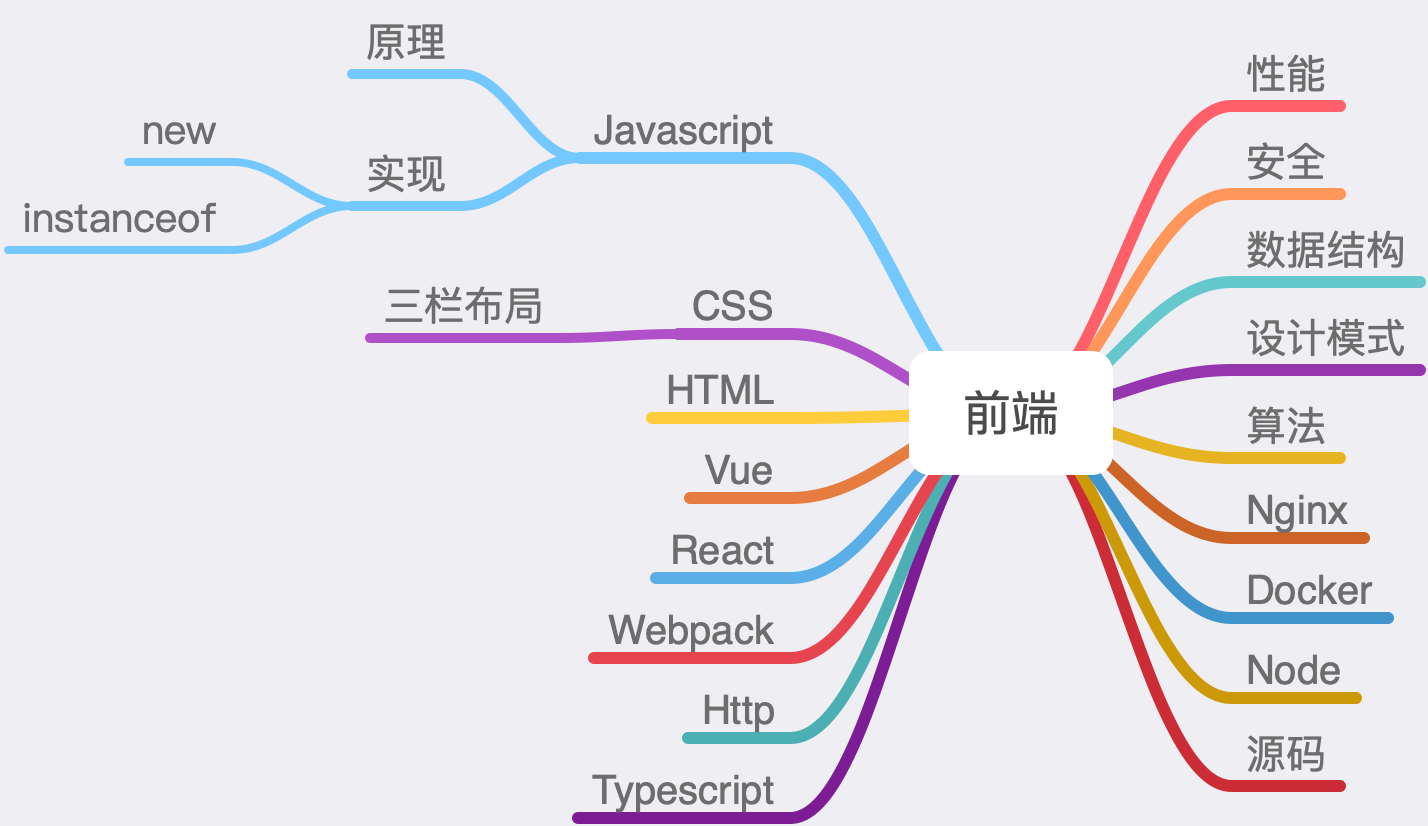
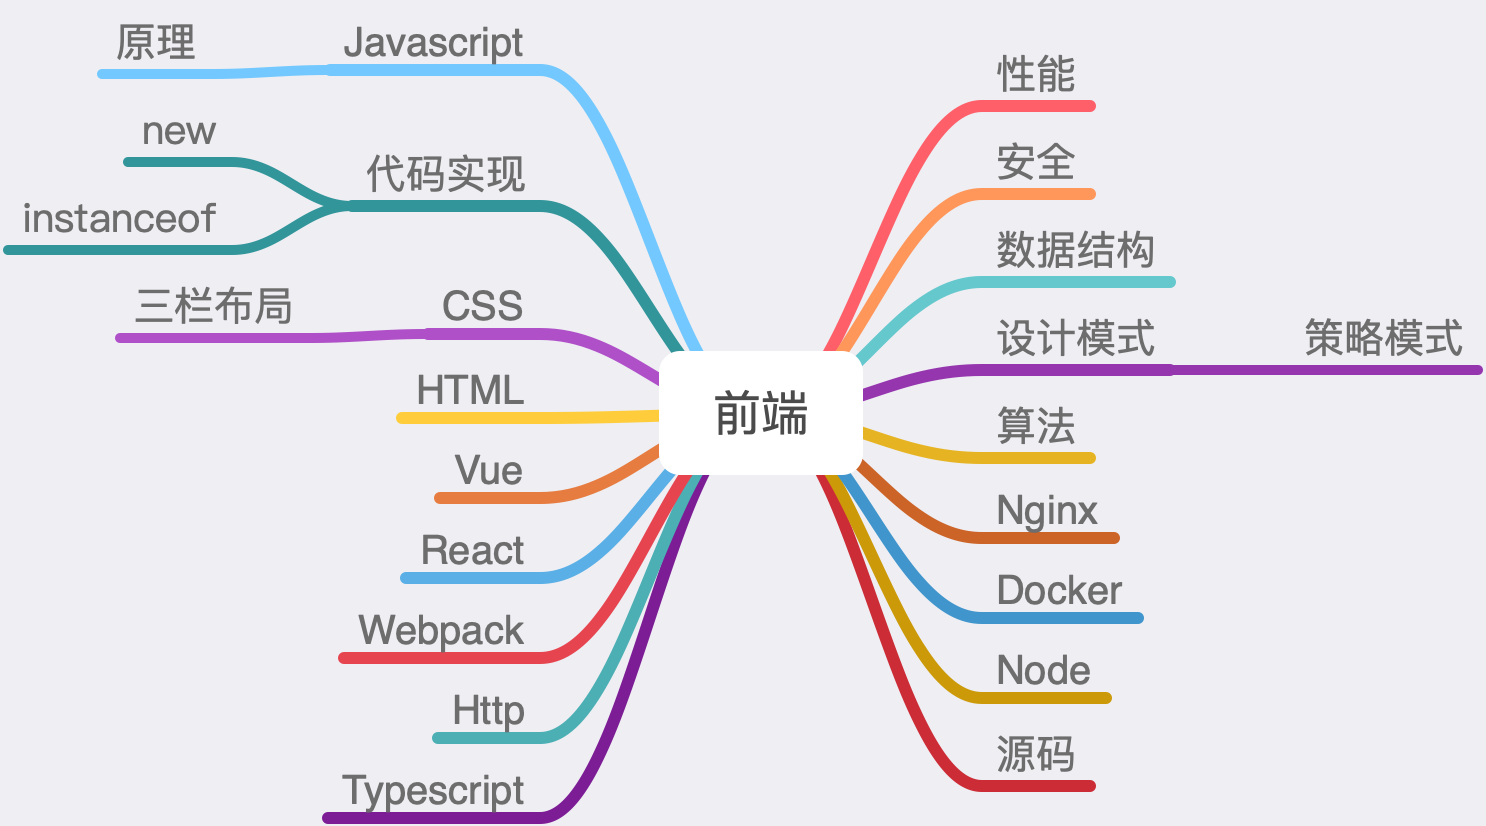
feat(write): 目录结构调整，添加一个手写实现的目录

Changed region(s): [[0.0, 0.0303, 1.0, 0.9988]]

diff --git a/readme.md b/readme.md
@@ -6,92 +6,97 @@
 
 ### 原理
 
-+ 原型链
-+ 闭包
-+ 执行上下文
-+ 作用域
-+ this
-+ event loop
-+ 垃圾回收
-+ 隐式转换
+* 原型链
+* 闭包
+* 执行上下文
+* 作用域
+* this
+* event loop
+* 垃圾回收
+* 隐式转换
 
 ### ES6
 
-+ 箭头函数
-+ Promise
-+ Class
-+ Proxy
-
-### 实现
-
-+ 继承
-+ 柯里化
-+ 深拷贝
-+ 数组去重
-+ [new](./js/new.md)
-+ [instanceof](./js/instanceof.md)
-+ call、apply、bind
-+ 处理url
-+ 数字千分位
-+ 大数相乘
+* 箭头函数
+* Promise
+* Class
+* Proxy
 
 ### 实践
 
-+ 文件上传
-+ 输入url的过程
-+ 函数式编程
+* 文件上传
+* 输入url的过程
+* 函数式编程
+
+## 代码实现
+
+* 继承
+* 柯里化
+* 深拷贝
+* 数组去重
+* [new](./write/new.md)
+* [instanceof](./write/instanceof.md)
+* call、apply、bind
+* 处理url
+* 数字千分位
+* 大数相乘
+* 模板引擎
+* EventEmitter
+* Promise
+* JSON.stringify和JSON.parse
+* 懒加载
 
 ##  Typescript
 
-+ 泛型
-+ type、interface
+* 泛型
+* type、interface
 
 ## CSS
 
-+ BFC
-+ [三栏布局](./css/layout.md)
-+ Flex
-+ Grid
-+ 预处理器
-+ 移动端适配
-+ 回流重绘
+* BFC
+* [三栏布局](./css/layout.md)
+* Flex
+* Grid
+* 预处理器
+* 移动端适配
+* 回流重绘
 
 ## HTML
 
-+ canvas
-+ Svg
-+ seo
+* canvas
+* Svg
+* seo
 
 ## React
 
 ### 原理
 
-+ 生命周期
-+ hooks
-+ Virtual Dom
-+ Diff
-+ React Fiber
+* 生命周期
+* hooks
+* Virtual Dom
+* Diff
+* React Fiber
 
 ### React-Router
 
-+ 实现
+* 实现
 
 ### Redux
 
-+ 实现
-+ Redux-thunk
-+ Redux-saga
-+ 中间件
+* 实现
+* Redux-thunk
+* Redux-saga
+* 中间件
 
 ## Vue
 
 ### 原理
 
-+ 生命周期
-+ 双向绑定
-+ nextTick
-+ watch、computed
-+ Vue3
+* 生命周期
+* 双向绑定
+* nextTick
+* watch、computed
+* Vue3
 
 ### Vue-Router
 
@@ -101,80 +106,75 @@
 
 ### Loader
 
-+ 常用loader
-+ 实现loader
+* 常用loader
+* 实现loader
 
 ### Plugins
 
-+ 常用Plugins
-+ 实现plugin
+* 常用Plugins
+* 实现plugin
 
 ### 其他
 
-+ 热更新
-+ Source-map
+* 热更新
+* Source-map
 
 ### Babel
 
-
-
 ## Http
 
-+ 缓存
-+ 三次握手、四次挥手
-+ https
-+ http2
-+ TCP、UDP
-+ dns
+* 缓存
+* 三次握手、四次挥手
+* https
+* http2
+* TCP、UDP
+* DNS
+* WebSocket
 
 ## 安全
 
-+ XSS
-+ CSRF
-+ 跨域
-+ npm包的安全
+* XSS
+* CSRF
+* 跨域
+* npm包的安全
 
 ## 性能
 
-+ 节流、防抖
-+ 按需加载
-+ 懒加载
-+ 服务端渲染
-+ 骨架屏
-
-
+* 节流、防抖
+* 按需加载
+* 懒加载
+* 服务端渲染
+* 骨架屏
 
 ## 数据结构
 
-+ 栈
-+ 队列
-+ 链表
-+ 树
-
-
+* 栈
+* 队列
+* 链表
+* 树
 
 ## 设计模式
 
-+ 单例模式
-+ [策略模式](./design-pattern/strategy-pattern.md)
-+ 适配器模式
-+ 装饰器模式
+* 单例模式
+* [策略模式](./design-pattern/strategy-pattern.md)
+* 适配器模式
+* 装饰器模式
 
 ## 算法
 
-+ 排序算法
-+ 动态规划
-+ 深度优先、广度优先
+* 排序算法
+* 动态规划
+* 深度优先、广度优先
 
 ## Nginx
 
-+ 配置
+* 配置
 
-+ 负载均衡
+* 负载均衡
 
 ## Node
 
-+ 模块机制
+* 模块机制
 
 ### Express
 
@@ -182,24 +182,19 @@
 
 ### npm
 
-+ 发布npm包
-
-
+* 发布npm包
 
 ## Docker
 
-
-
 ## 源码阅读
 
-+ React
-+ Vue
-+ JQuery
-+ Antd
-+ Element-UI
-
-
+* React
+* Vue
+* JQuery
+* Antd
+* Element-UI
 
 ## 思维导图
 
 ![思维导图](./shortcut/Front-End.png)
+
